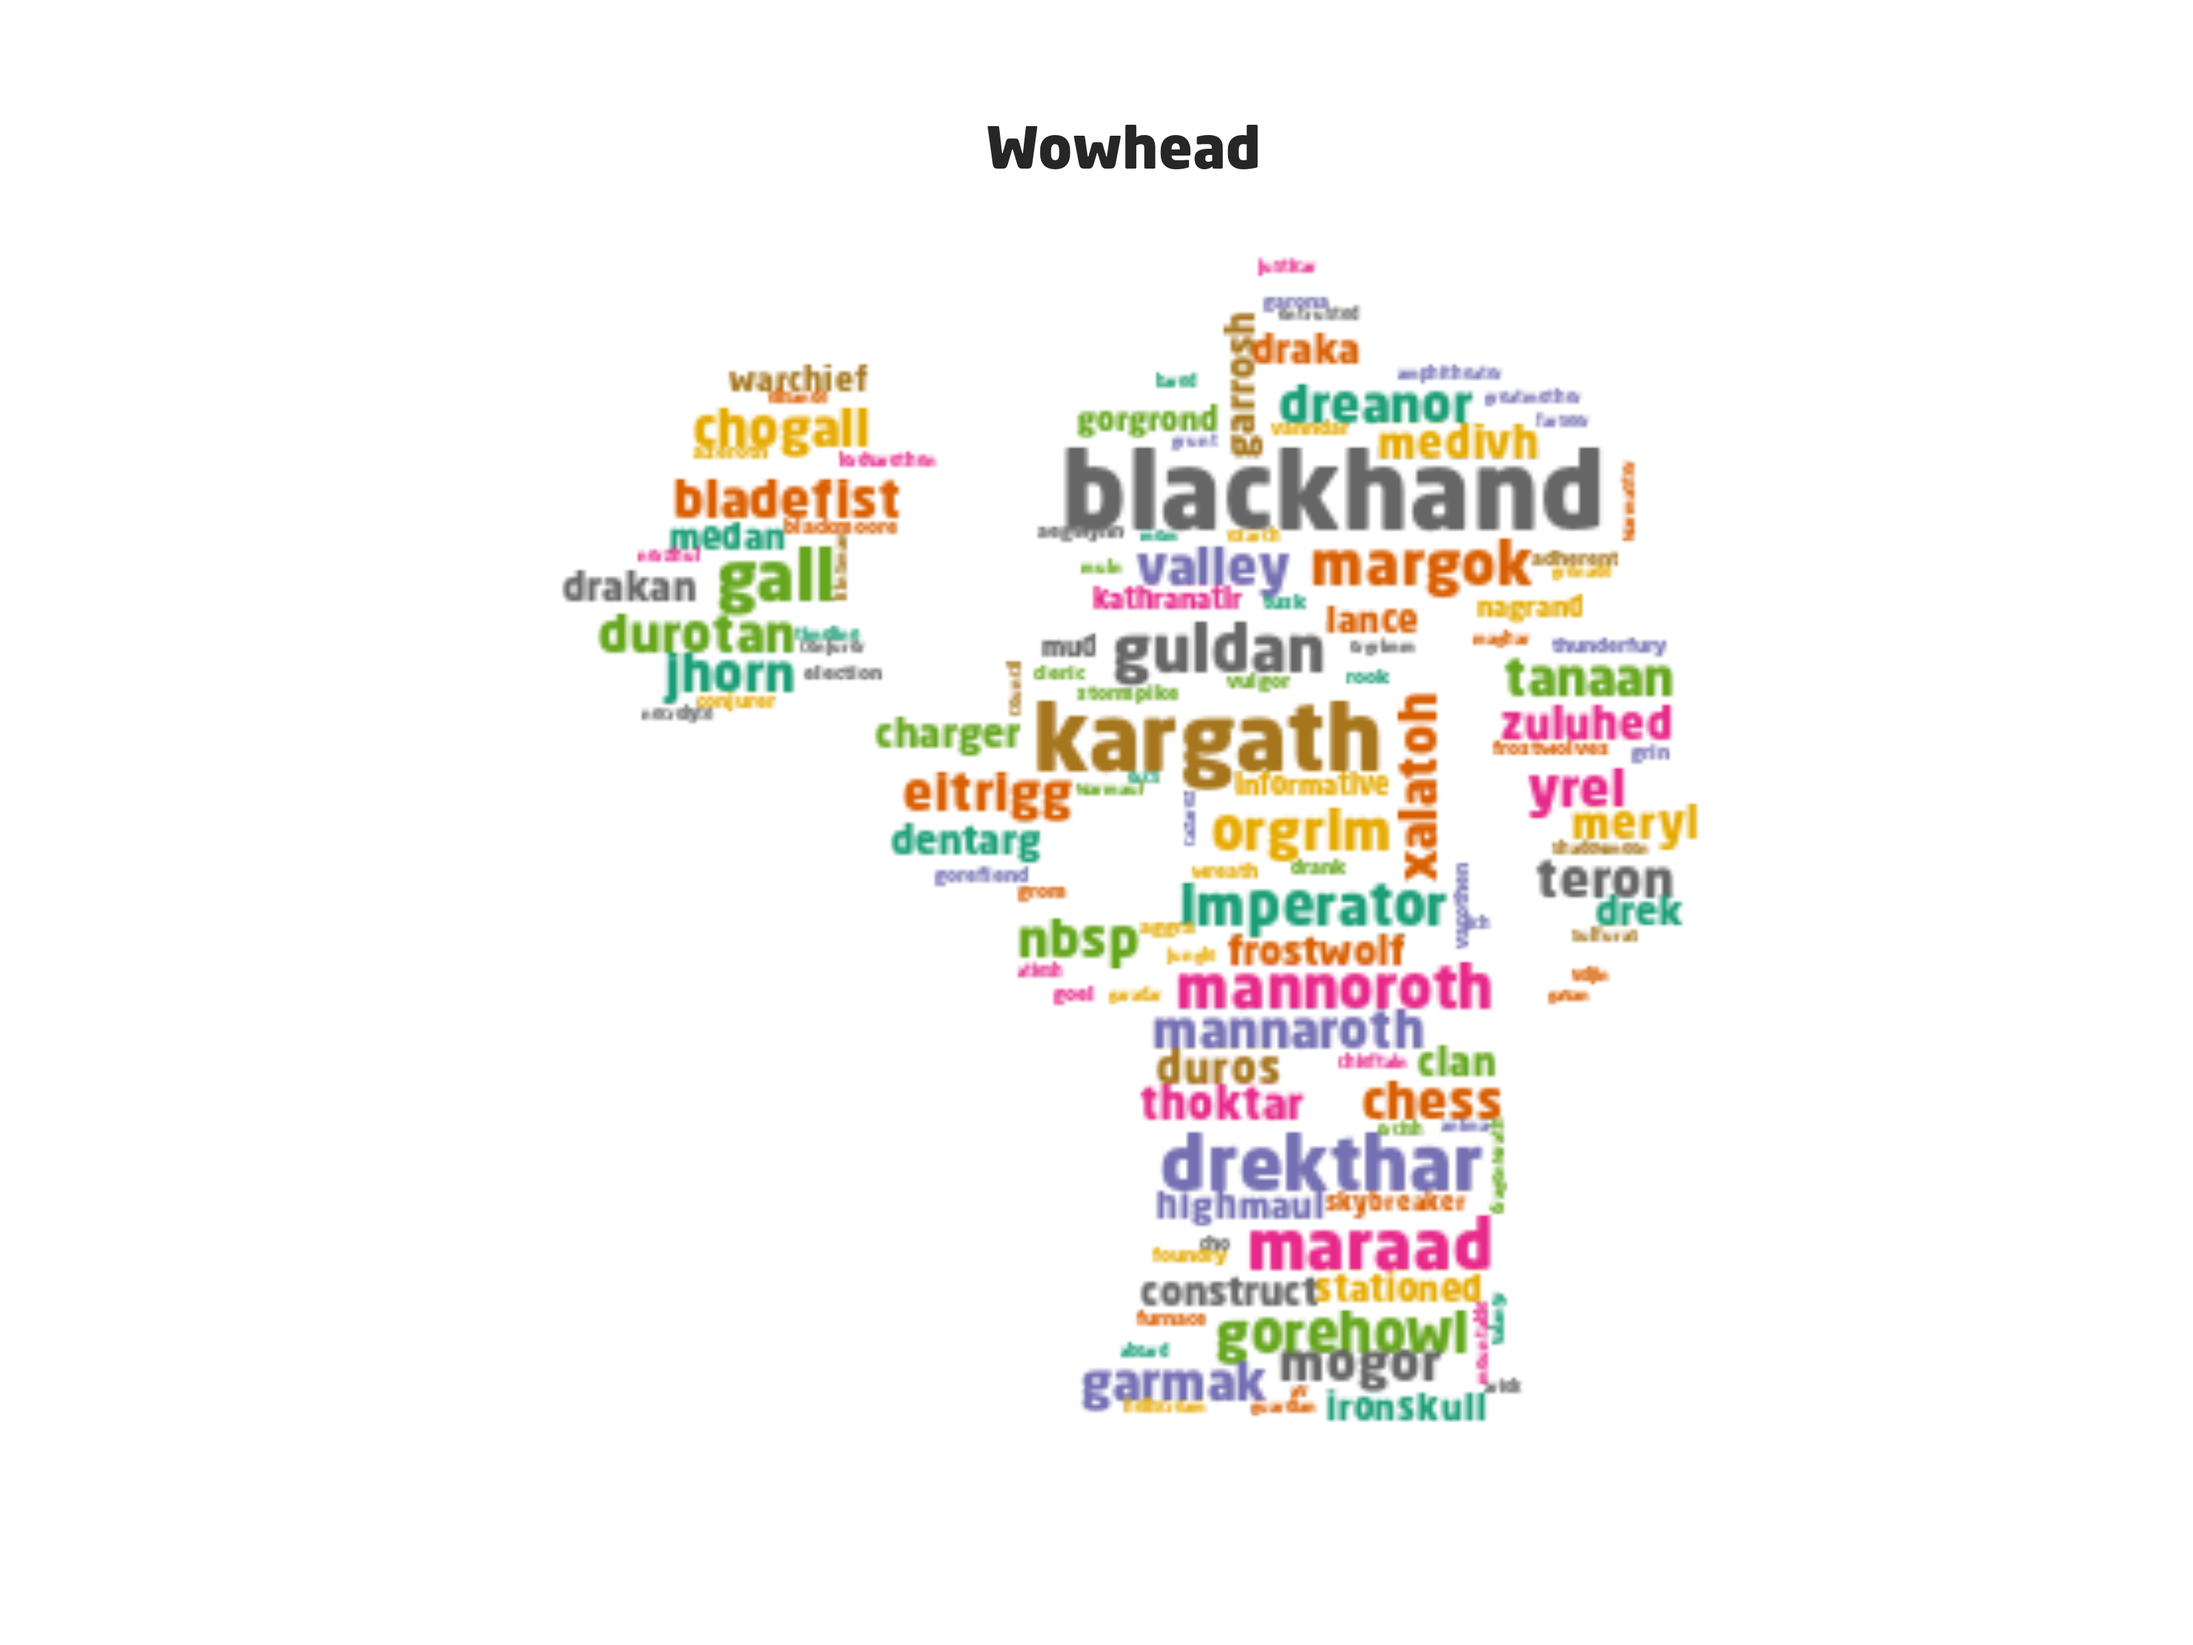
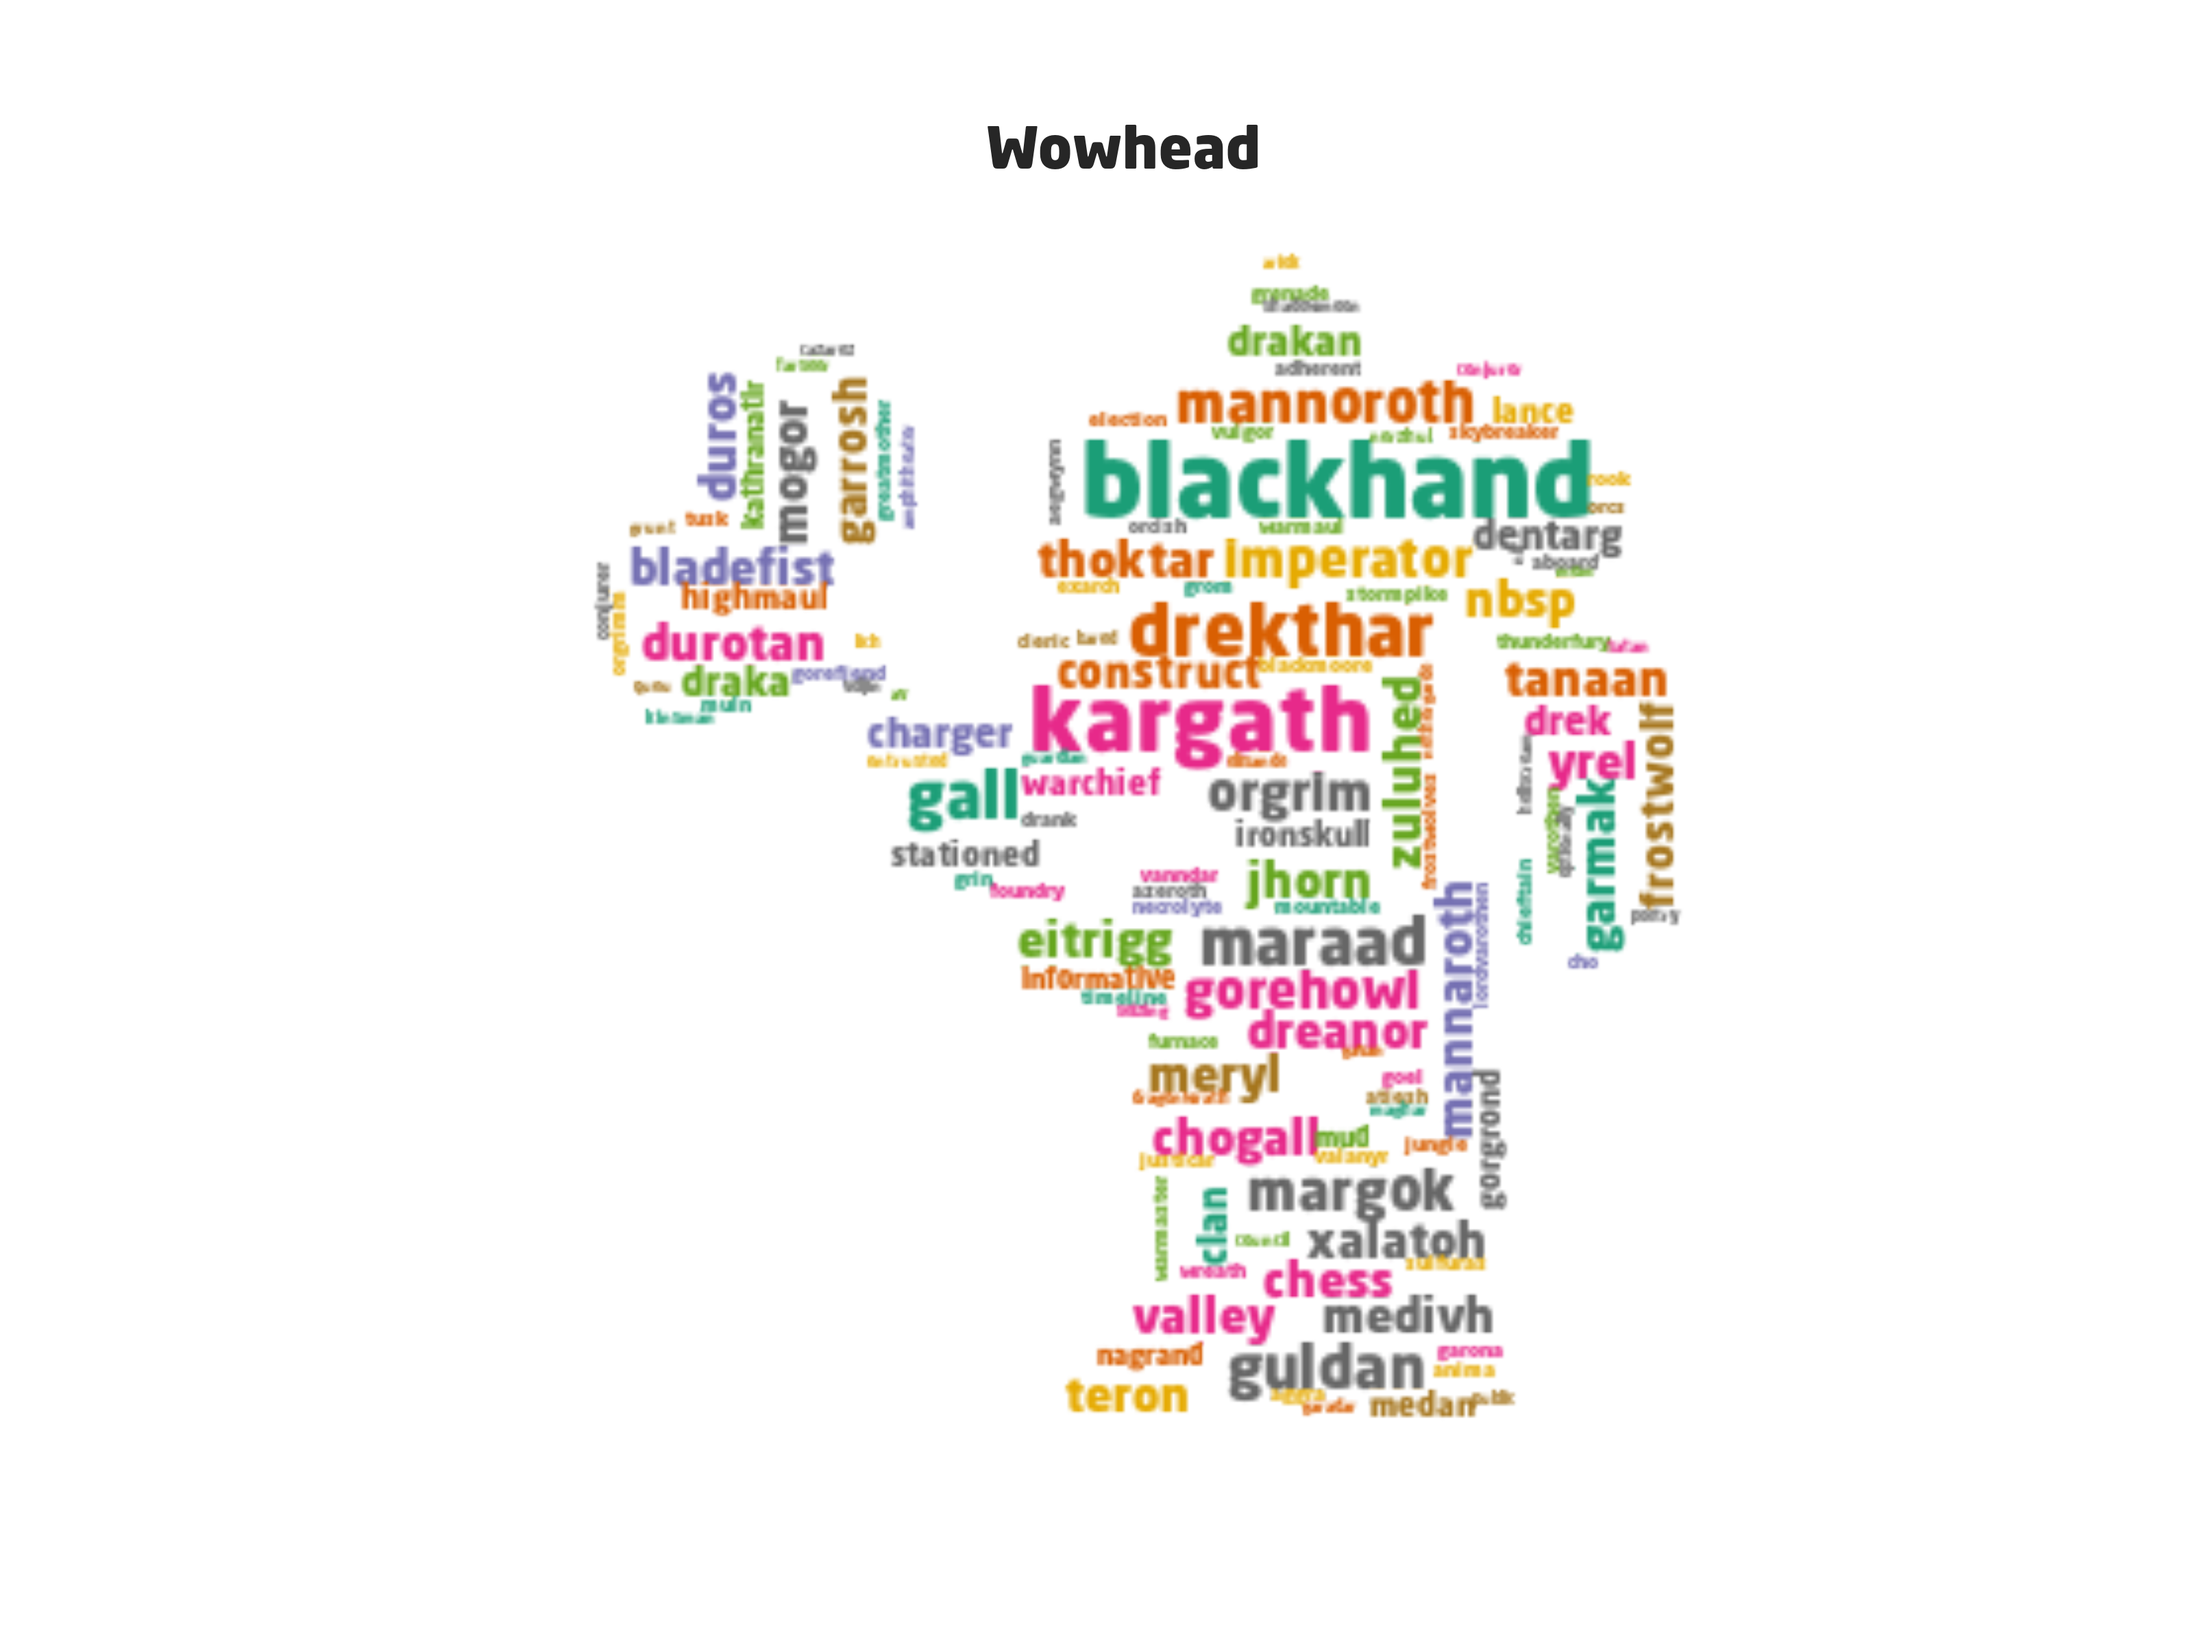
com

Changed region(s): [[0.25, 0.1562, 0.7812, 0.875]]

diff --git a/assets/js/app.js b/assets/js/app.js
@@ -102,12 +102,14 @@ function updateWcSelection(){
 
   function internalSwitch(select, dropdown2, dropdown1, container){
     if(select != "head"){
-      names = [html_alliance_pedia, html_horde_pedia, html_male_peida, html_female_pedia, html_alive_peida, html_deceased_peida]
+      names = [html_alliance_pedia, html_horde_pedia, html_male_peida, html_female_pedia, html_alive_peida, html_deceased_peida, html_0_peida,html_1_peida,html_2_peida,html_3_peida,html_4_peida,html_5_peida,html_6_peida]
     }else{
-      names = [html_alliance_head, html_horde_head, html_male_head, html_female_head, html_alive_head, html_deceased_head]
+      names = [html_alliance_head, html_horde_head, html_male_head, html_female_head, html_alive_head, html_deceased_head,html_0_head,html_1_head,html_2_head,html_3_head,html_4_head,html_5_head,html_6_head]
     }
+    menu = [dropdown2, dropdown1]
      // code block
-     switch(dropdown2) {
+     for(let i = 0; i < 2; i++){
+     switch(menu[i]) {
       case "1":
         // code block
         container.insertAdjacentHTML('afterbegin', names[0]);
@@ -132,37 +134,39 @@ function updateWcSelection(){
         // code block
         container.insertAdjacentHTML('afterbegin', names[5]);
         break;
+      case "7":
+        // code block
+        container.insertAdjacentHTML('afterbegin', names[6]);
+        break;
+      case "8":
+        // code block
+        container.insertAdjacentHTML('afterbegin', names[7]);
+        break;
+      case "9":
+        // code block
+        container.insertAdjacentHTML('afterbegin', names[8]);
+        break;
+      case "10":
+        // code block
+        container.insertAdjacentHTML('afterbegin', names[9]);
+        break;
+      case "11":
+      // code block
+        container.insertAdjacentHTML('afterbegin', names[10]);
+        break;
+      case "12":
+        // code block
+        container.insertAdjacentHTML('afterbegin', names[11]);
+        break;
+      case "13":
+        // code block
+        container.insertAdjacentHTML('afterbegin', names[12]);
+        break;
       default:
         // code block
     }
-     switch(dropdown1) {
-      case "1":
-        // code block
-        container.insertAdjacentHTML('afterbegin',  names[0]);
-        break;
-      case "2":
-        // code block
-        container.insertAdjacentHTML('afterbegin',  names[1]);
-        break;
-      case "3":
-        // code block
-        container.insertAdjacentHTML('afterbegin',  names[2]);
-        break;
-      case "4":
-        // code block
-        container.insertAdjacentHTML('afterbegin',  names[3]);
-        break;
-      case "5":
-        // code block
-          container.insertAdjacentHTML('afterbegin', names[4]);
-          break;
-      case "6":
-        // code block
-        container.insertAdjacentHTML('afterbegin', names[5]);
-        break;
-      default:
-        // code block
-    }
+  }
+     
   }
 
   var html_alliance_head = `
@@ -290,3 +294,159 @@ function updateWcSelection(){
   </div>
   `;
   
+
+
+
+
+
+
+
+
+
+
+
+  var html_0_head = `
+  <div class="col-sm-6 col-md-6 col-lg-6">
+  <div class="gallery-item">
+    <div class="gallery-image"><a class="gallery" href="assets/images/wowhead/wc_com_0.png" title="community 1 wowhead"><img src="assets/images/wowhead/wc_com_0.png">
+        <div class="gallery-caption">
+          <div class="gallery-icon"><span class="icon-magnifying-glass"></span></div>
+        </div></a></div>
+  </div>
+  </div>
+  `;
+  var html_0_peida = `
+  <div class="col-sm-6 col-md-6 col-lg-6">
+  <div class="gallery-item">
+    <div class="gallery-image"><a class="gallery" href="assets/images/wowpedia/wc_com_0.png" title="community 1 wowpeida"><img src="assets/images/wowpedia/wc_com_0.png">
+        <div class="gallery-caption">
+          <div class="gallery-icon"><span class="icon-magnifying-glass"></span></div>
+        </div></a></div>
+  </div>
+  </div>
+  `;
+  
+  var html_1_head = `
+  <div class="col-sm-6 col-md-6 col-lg-6">
+  <div class="gallery-item">
+    <div class="gallery-image"><a class="gallery" href="assets/images/wowhead/wc_com_1.png" title="community 2 wowhead"><img src="assets/images/wowhead/wc_com_1.png">
+        <div class="gallery-caption">
+          <div class="gallery-icon"><span class="icon-magnifying-glass"></span></div>
+        </div></a></div>
+  </div>
+  </div>
+  `;
+  var html_1_peida = `
+  <div class="col-sm-6 col-md-6 col-lg-6">
+  <div class="gallery-item">
+    <div class="gallery-image"><a class="gallery" href="assets/images/wowpedia/wc_com_1.png" title="community 2 wowpeida"><img src="assets/images/wowpedia/wc_com_1.png">
+        <div class="gallery-caption">
+          <div class="gallery-icon"><span class="icon-magnifying-glass"></span></div>
+        </div></a></div>
+  </div>
+  </div>
+  `;
+  var html_2_head = `
+  <div class="col-sm-6 col-md-6 col-lg-6">
+  <div class="gallery-item">
+    <div class="gallery-image"><a class="gallery" href="assets/images/wowhead/wc_com_2.png" title="community 3 wowhead"><img src="assets/images/wowhead/wc_com_2.png">
+        <div class="gallery-caption">
+          <div class="gallery-icon"><span class="icon-magnifying-glass"></span></div>
+        </div></a></div>
+  </div>
+  </div>
+  `;
+  var html_2_peida = `
+  <div class="col-sm-6 col-md-6 col-lg-6">
+  <div class="gallery-item">
+    <div class="gallery-image"><a class="gallery" href="assets/images/wowpedia/wc_com_2.png" title="community 3 wowpeida"><img src="assets/images/wowpedia/wc_com_2.png">
+        <div class="gallery-caption">
+          <div class="gallery-icon"><span class="icon-magnifying-glass"></span></div>
+        </div></a></div>
+  </div>
+  </div>
+  `;
+  var html_3_head = `
+  <div class="col-sm-6 col-md-6 col-lg-6">
+  <div class="gallery-item">
+    <div class="gallery-image"><a class="gallery" href="assets/images/wowhead/wc_com_3.png" title="community 4 wowhead"><img src="assets/images/wowhead/wc_com_3.png">
+        <div class="gallery-caption">
+          <div class="gallery-icon"><span class="icon-magnifying-glass"></span></div>
+        </div></a></div>
+  </div>
+  </div>
+  `;
+
+  var html_3_peida = `
+  <div class="col-sm-6 col-md-6 col-lg-6">
+  <div class="gallery-item">
+    <div class="gallery-image"><a class="gallery" href="assets/images/wowpedia/wc_com_3.png" title="community 4 wowpeida"><img src="assets/images/wowpedia/wc_com_3.png">
+        <div class="gallery-caption">
+          <div class="gallery-icon"><span class="icon-magnifying-glass"></span></div>
+        </div></a></div>
+  </div>
+  </div>
+  `;
+  var html_4_head = `
+  <div class="col-sm-6 col-md-6 col-lg-6">
+  <div class="gallery-item">
+    <div class="gallery-image"><a class="gallery" href="assets/images/wowhead/wc_com_4.png" title="community 5 wowhead"><img src="assets/images/wowhead/wc_com_4.png">
+        <div class="gallery-caption">
+          <div class="gallery-icon"><span class="icon-magnifying-glass"></span></div>
+        </div></a></div>
+  </div>
+  </div>
+  `;
+
+  var html_4_peida = `
+  <div class="col-sm-6 col-md-6 col-lg-6">
+  <div class="gallery-item">
+    <div class="gallery-image"><a class="gallery" href="assets/images/wowpedia/wc_com_4.png" title="community 5 wowpeida"><img src="assets/images/wowpedia/wc_com_4.png">
+        <div class="gallery-caption">
+          <div class="gallery-icon"><span class="icon-magnifying-glass"></span></div>
+        </div></a></div>
+  </div>
+  </div>
+  `;
+  var html_5_head = `
+  <div class="col-sm-6 col-md-6 col-lg-6">
+  <div class="gallery-item">
+    <div class="gallery-image"><a class="gallery" href="assets/images/wowhead/wc_com_5.png" title="community 6 wowhead"><img src="assets/images/wowhead/wc_com_5.png">
+        <div class="gallery-caption">
+          <div class="gallery-icon"><span class="icon-magnifying-glass"></span></div>
+        </div></a></div>
+  </div>
+  </div>
+  `;
+
+  var html_5_peida = `
+  <div class="col-sm-6 col-md-6 col-lg-6">
+  <div class="gallery-item">
+    <div class="gallery-image"><a class="gallery" href="assets/images/wowpedia/wc_com_5.png" title="community 6 wowpeida"><img src="assets/images/wowpedia/wc_com_5.png">
+        <div class="gallery-caption">
+          <div class="gallery-icon"><span class="icon-magnifying-glass"></span></div>
+        </div></a></div>
+  </div>
+  </div>
+  `;
+  var html_6_head = `
+  <div class="col-sm-6 col-md-6 col-lg-6">
+  <div class="gallery-item">
+    <div class="gallery-image"><a class="gallery" href="assets/images/wowhead/wc_com_6.png" title="community 7 wowhead"><img src="assets/images/wowhead/wc_com_6.png">
+        <div class="gallery-caption">
+          <div class="gallery-icon"><span class="icon-magnifying-glass"></span></div>
+        </div></a></div>
+  </div>
+  </div>
+  `;
+
+  var html_6_peida = `
+  <div class="col-sm-6 col-md-6 col-lg-6">
+  <div class="gallery-item">
+    <div class="gallery-image"><a class="gallery" href="assets/images/wowpedia/wc_com_6.png" title="community 7 wowpeida"><img src="assets/images/wowpedia/wc_com_6.png">
+        <div class="gallery-caption">
+          <div class="gallery-icon"><span class="icon-magnifying-glass"></span></div>
+        </div></a></div>
+  </div>
+  </div>
+  `;

diff --git a/index.html b/index.html
@@ -477,6 +477,14 @@
               <option value="4">Female</option>
               <option value="5">Alive</option>
               <option value="6">Deceased</option>
+
+              <option value="7">Community 1</option>
+              <option value="8">Community 2</option>
+              <option value="9">Community 3</option>
+              <option value="10">Community 4</option>
+              <option value="11">Community 5</option>
+              <option value="12">Community 6</option>
+              <option value="13">Community 7</option>
             </select> vs.
             <select id="WC_dropdown_2" onChange="updateWcSelection()">
               <option value="1">Alliance</option>
@@ -485,6 +493,14 @@
               <option value="4">Female</option>
               <option value="5">Alive</option>
               <option value="6">Deceased</option>
+              
+              <option value="7">Community 1</option>
+              <option value="8">Community 2</option>
+              <option value="9">Community 3</option>
+              <option value="10">Community 4</option>
+              <option value="11">Community 5</option>
+              <option value="12">Community 6</option>
+              <option value="13">Community 7</option>
             </select> from
             <select id="WC_wow" onChange="updateWcSelection()">
               <option value="1">WowPedia</option>
